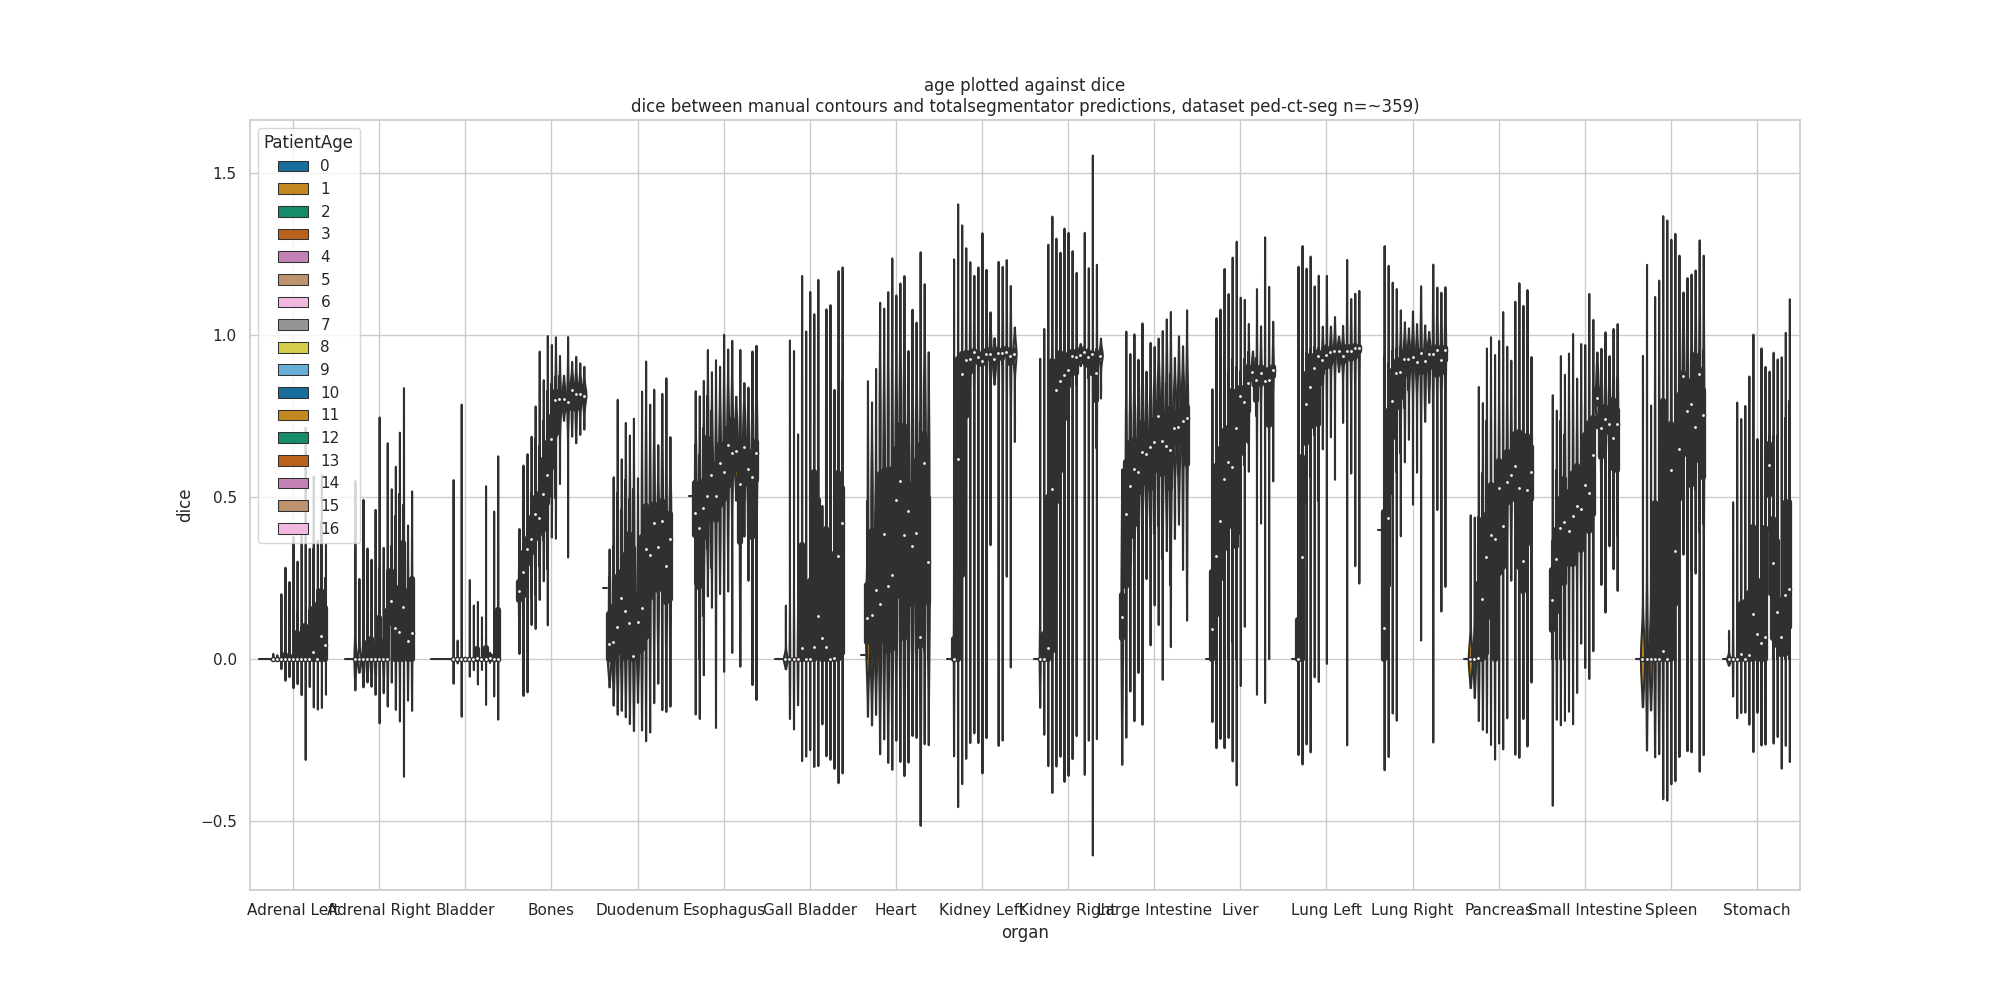
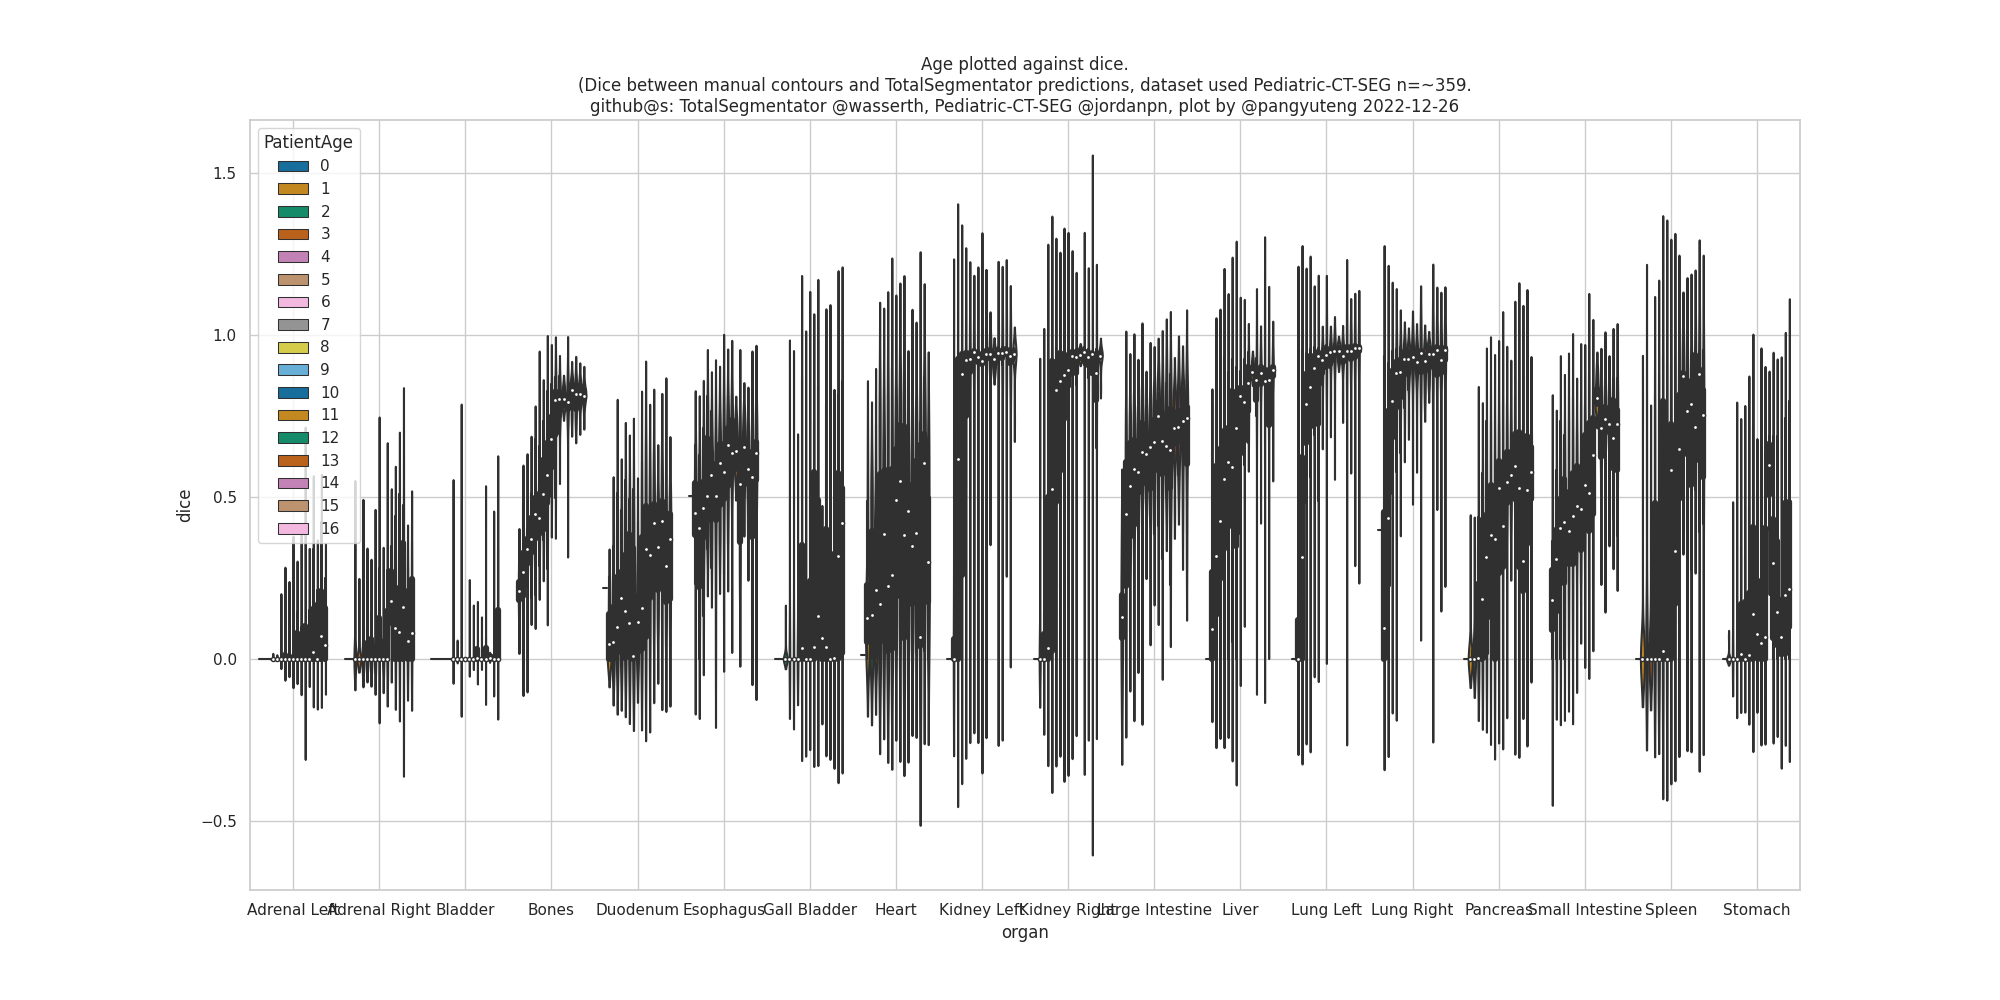
added @s and dates

Changed region(s): [[0.279, 0.062, 0.744, 0.124]]

diff --git a/assess/ped-ct-seg/analyze.py b/assess/ped-ct-seg/analyze.py
@@ -89,8 +89,10 @@ def results_with_age():
         aspect = 1,
         legend_out=True)
 
-    plt.title("age plotted against dice\n"+\
-        "dice between manual contours and totalsegmentator predictions, dataset ped-ct-seg n=~359)")
+    plt.title("Age plotted against dice.\n"+\
+        "(Dice between manual contours and TotalSegmentator predictions, dataset used Pediatric-CT-SEG n=~359.\n"+\
+        "github@s: TotalSegmentator @wasserth, Pediatric-CT-SEG @jordanpn, plot by @pangyuteng 2022-12-26"
+        )
 
     figure_output_path = "results/age-vs-dice.png"
     plt.grid(True)
